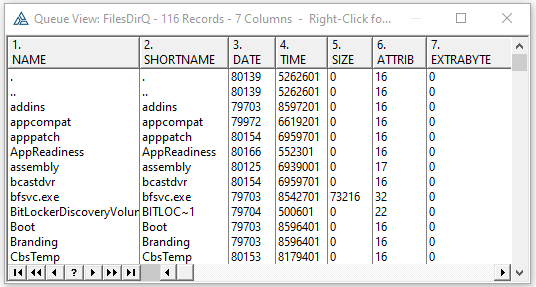
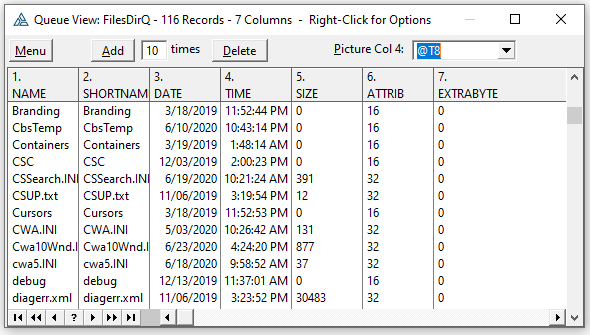
Queue View Enhanced
Queue View can be used for From(Q) or new QueueReflection. Many new features on window via Buttons or Right-click on List.  Change column picture. Add or Delete rows. Copy row or cell to Clipboard. View row or cell as text.

diff --git a/QueueNoWindow/README.md b/QueueNoWindow/README.md
@@ -1,6 +1,6 @@
 ## View Queue without a Window
 
-If you have a Queue but no Window witrh LIST you can view it using a call to QueueReflection like the below code and in the example in this folder.
+If you have a Queue but no Window with a LIST you can view it using a call to QueueReflection like the below code and in the example in this folder.
 
 ```clarion
 WndPrvCls     CBWndPreviewClass
@@ -9,10 +9,20 @@ WndPrvCls     CBWndPreviewClass
 
 ```
 
-It opens to a window showing the Queue Definition. Yu can coipy thast definition to the clipboard.
+It opens to a window showing the Queue Definition. You can copy that definition to the clipboard.
 
-![qdef](readmeqr1.png)
+![q def](readmeqr1.png)
 
-Click View Queue Records to see the Queue records. Right-click for options like to copy the queue contents to the clipboard.
+Click View Queue Records to see the Queue records. The menu button allows copying the entire queue to the clipboard. Add button adds duplicates of the selected row. Delete button deletes the selected row. Right-click on the list for options like to copy the cell contents to the clipboard, change the column picture or hide the column.
 
-![qdef](readmeqr2.png)
+![q view](readmeqr2.png)
+
+* Add records. Sometimes a generated preview is short records to fill the window.
+* Delete record
+* Change column picture e.g. for Dates and times show as @d @t pictures
+* Hide Column
+* Shrink or Expand All Columns.
+* Copy entire Queue to Clipboard either space delimited or tab delimite for paste into Excel
+* Copy row to Clipboard
+* Copy cell to Clipboard
+* View row or cell as text
